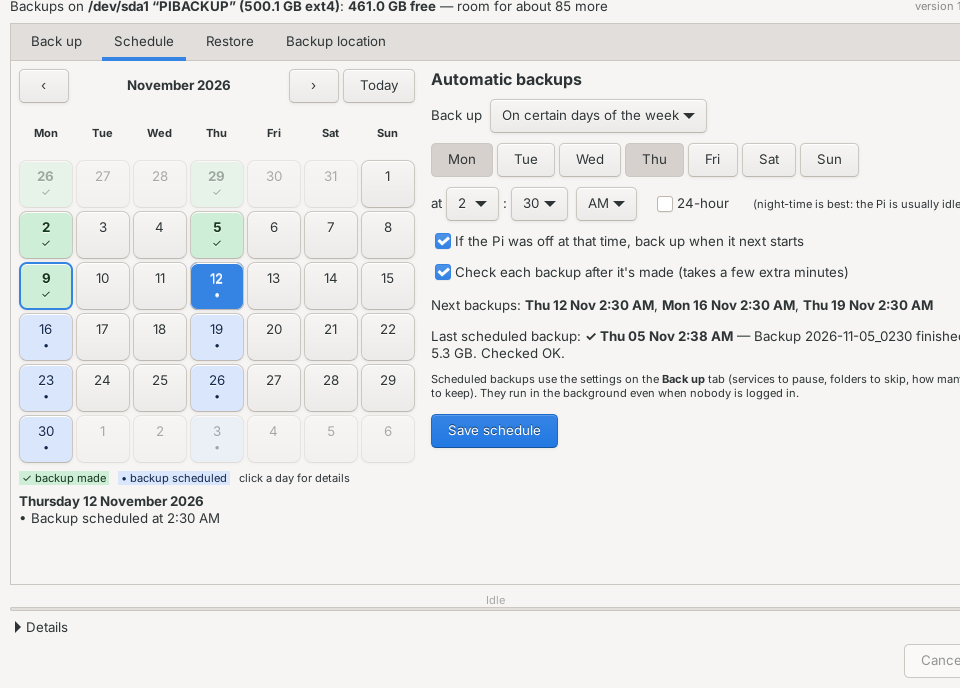
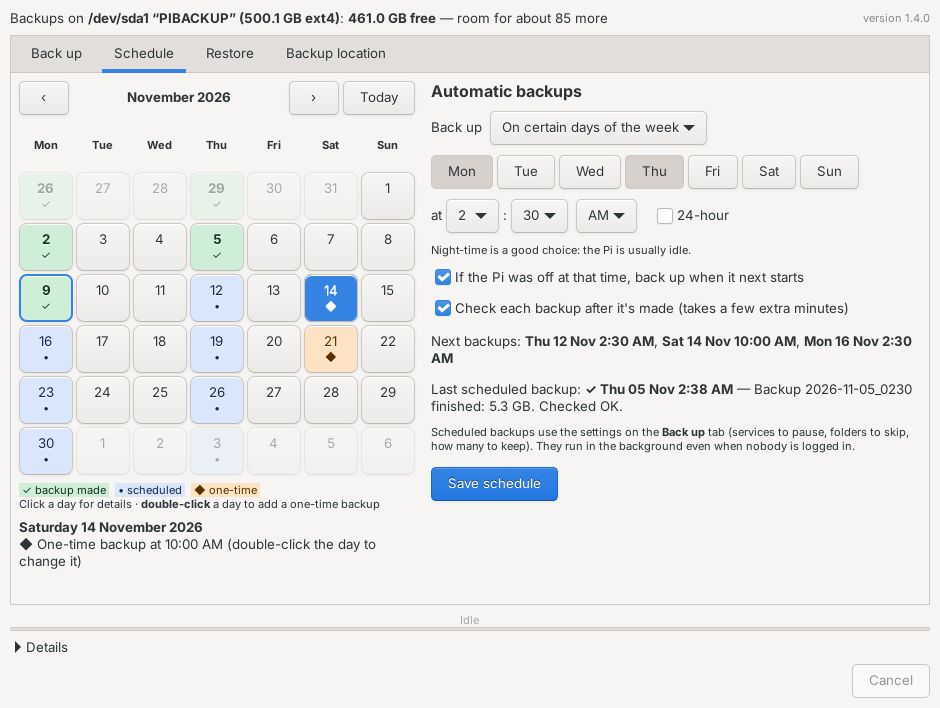
v1.4.0: double-click a calendar day to add a one-time backup
- One-time backups (◆) at a chosen time, in addition to the regular schedule
- Added to the same systemd timer as extra OnCalendar= lines; saved immediately
- A one-time entry removes itself when its backup starts
- Next backups list includes them; 'night-time' hint moved to its own line

Claude-Session: https://claude.ai/code/session_01KmoB7at9wED3AtLATMJF7o

diff --git a/README.md b/README.md
@@ -1,6 +1,6 @@
 # Pi Backup Manager
 
-**Version 1.3.0** · [Changelog](#changelog) · [Upgrade](#upgrade)
+**Version 1.4.0** · [Changelog](#changelog) · [Upgrade](#upgrade)
 
 A simple desktop app for **compressed, restorable whole-system backups** of a Raspberry Pi,
 with a **disk manager** for choosing where backups live and a **calendar scheduler** for
@@ -30,6 +30,11 @@ Works with an SD card, a USB or NVMe SSD, or two NVMe drives in a RAID1 mirror.
   calendar shows ✓ for backups made and • for backups coming up; click a day for details.
   Missed runs can catch up when the Pi next starts, and each scheduled backup can be checked
   automatically.
+- **One-time backups:** double-click any day on the calendar, pick a time, and that day gets an
+  extra backup (◆), on top of the regular schedule. Double-click it again to change or remove it.
+  It's saved straight away and clears itself once it has run.
+
+  ![One-time backup](screenshots/8-one-time-backup.png)
 - **Check** any backup. Every piece is read back and compared with its checksum.
 - **Browse a backup and pick what to get back:** a folder tree with checkboxes, search, sizes and
   dates. Tick a folder, untick anything inside it you don't need, then restore the selection into
@@ -206,6 +211,7 @@ Then remove the two Pi Backup Manager lines from `/etc/fstab`. Your backups stay
 
 ## Changelog
 
+- **1.4.0:** double-click a calendar day to add a one-time backup at a chosen time.
 - **1.3.0:** **Browse backup…** to look inside a backup and restore only the ticked files and
   folders; each backup saves a contents list for instant browsing.
 - **1.2.2:** a 12/24-hour clock switch in the scheduler (remembered per user).
